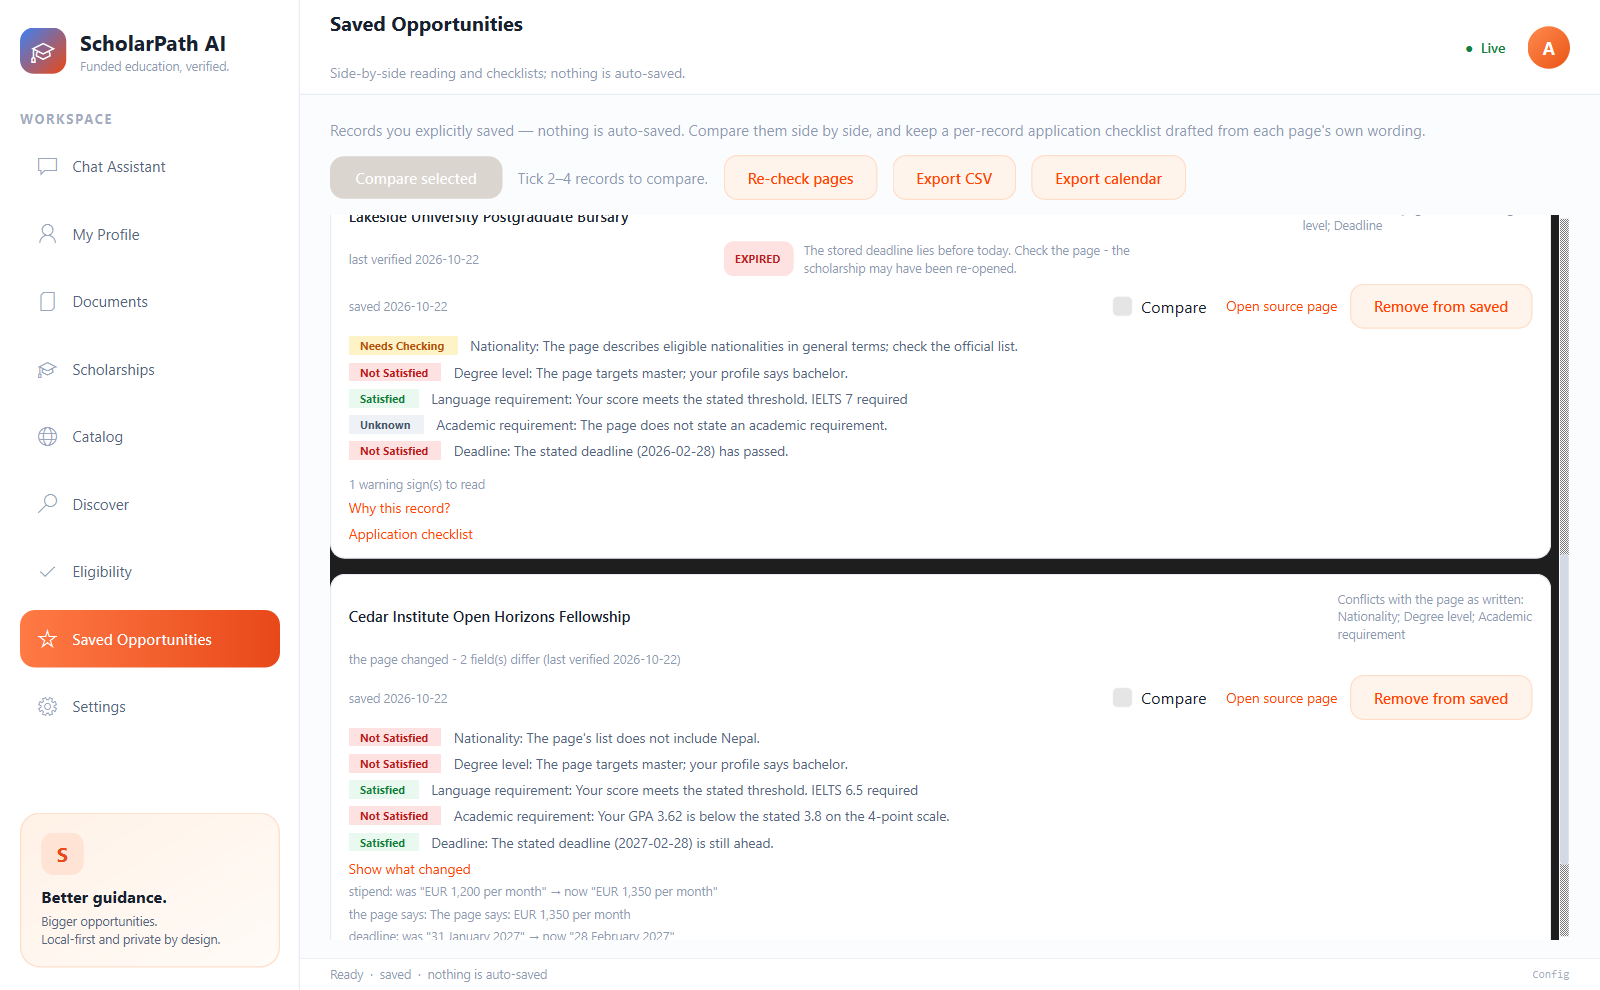
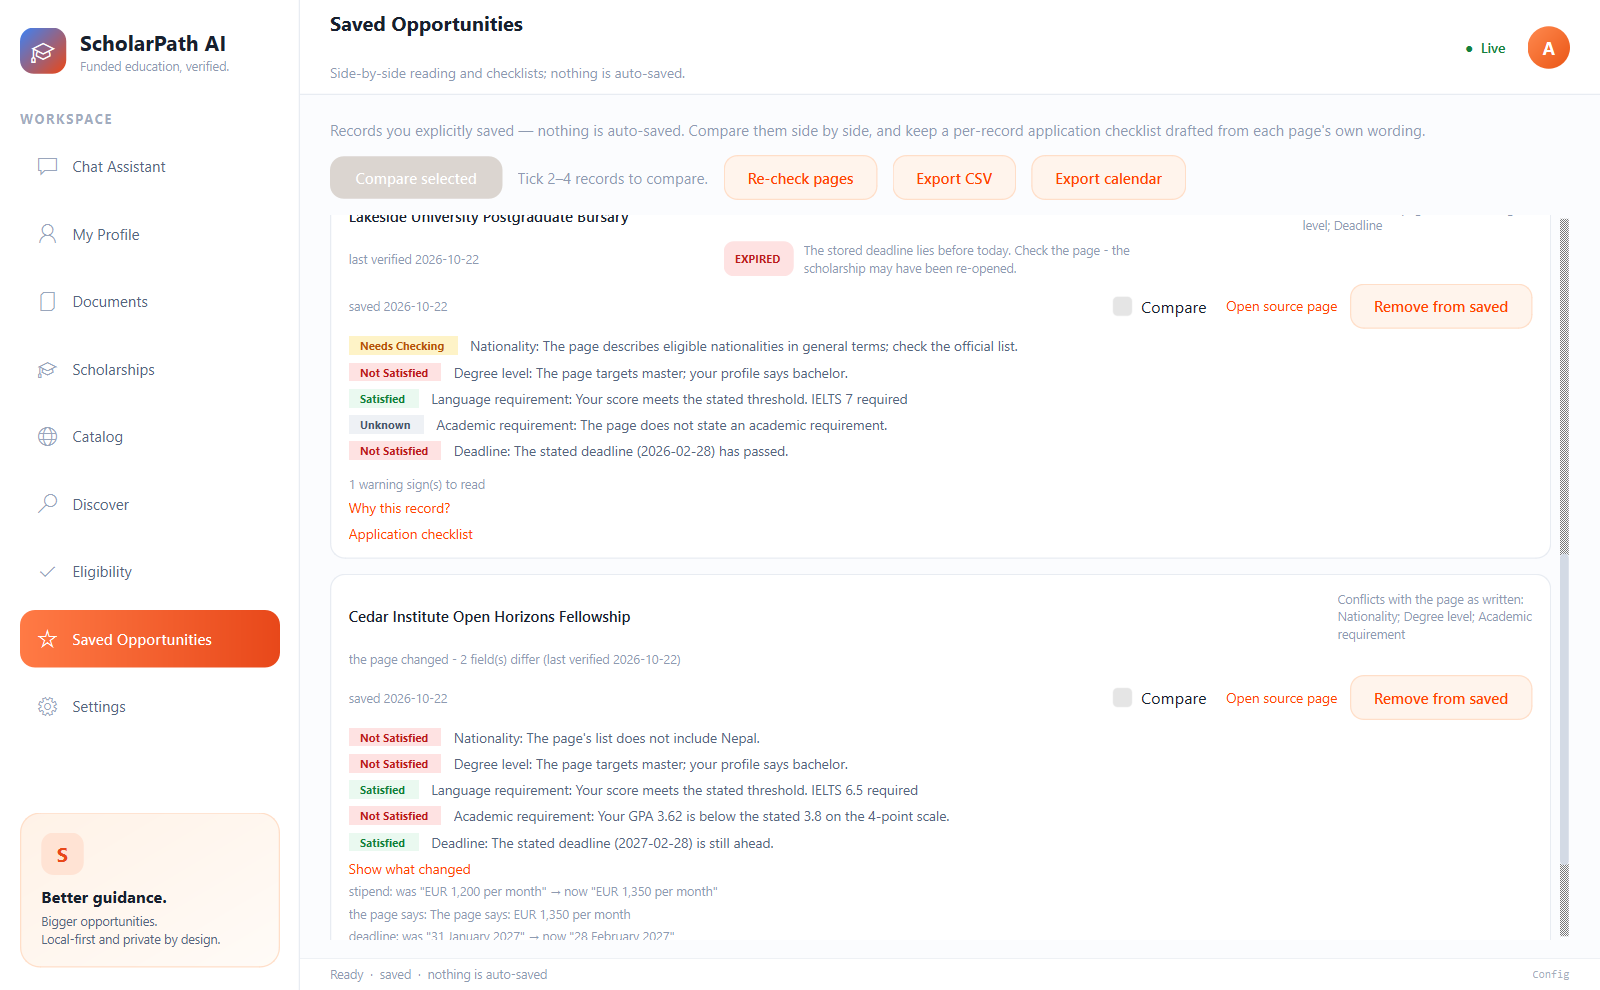
fix(ui): paint every scroll area with the page colour and card the profile intro (G173)

Changed region(s): [[0.1875, 0.2121, 1.0, 0.9394]]

diff --git a/src/scholarpath/ui/profile_page.py b/src/scholarpath/ui/profile_page.py
@@ -71,15 +71,21 @@ class ProfilePage(QWidget):
 
         header = QVBoxLayout()
         header.setSpacing(3)
+        intro = QFrame(self)
+        intro.setObjectName("PanelCard")
+        intro_row = QVBoxLayout(intro)
+        intro_row.setContentsMargins(16, 12, 16, 12)
+        intro_row.setSpacing(2)
         lead = QLabel(
             "Local-only. This is what the app (later: research and eligibility "
             "checks) will work from. You fill it yourself or confirm extracted "
             "values one by one - nothing is saved automatically.",
-            self,
+            intro,
         )
         lead.setObjectName("PageLead")
         lead.setWordWrap(True)
-        header.addWidget(lead)
+        intro_row.addWidget(lead)
+        header.addWidget(intro)
         outer.addLayout(header)
 
         card = QFrame(self)

diff --git a/src/scholarpath/ui/theme.py b/src/scholarpath/ui/theme.py
@@ -70,6 +70,22 @@ QWidget {{
 QWidget#Root {{ background: {p['page']}; }}
 QMainWindow {{ background: {p['page']}; }}
 
+/* Scroll areas paint the page colour themselves. The scroll area frame, the
+   viewport Qt creates inside it, and the widget set as its content are all
+   plain QWidgets; without a rule they fall back to the system palette, which
+   is near-black when Windows is in dark mode. One rule here covers every
+   page, the right-hand panel and the eligibility dialog. */
+QScrollArea {{
+    background: {p['page']};
+    border: none;
+}}
+QScrollArea > QWidget#qt_scrollarea_viewport {{
+    background: {p['page']};
+}}
+QScrollArea > QWidget > QWidget {{
+    background: {p['page']};
+}}
+
 /* ---------------- sidebar ---------------- */
 QWidget#Sidebar {{
     background: {p['surface']};
